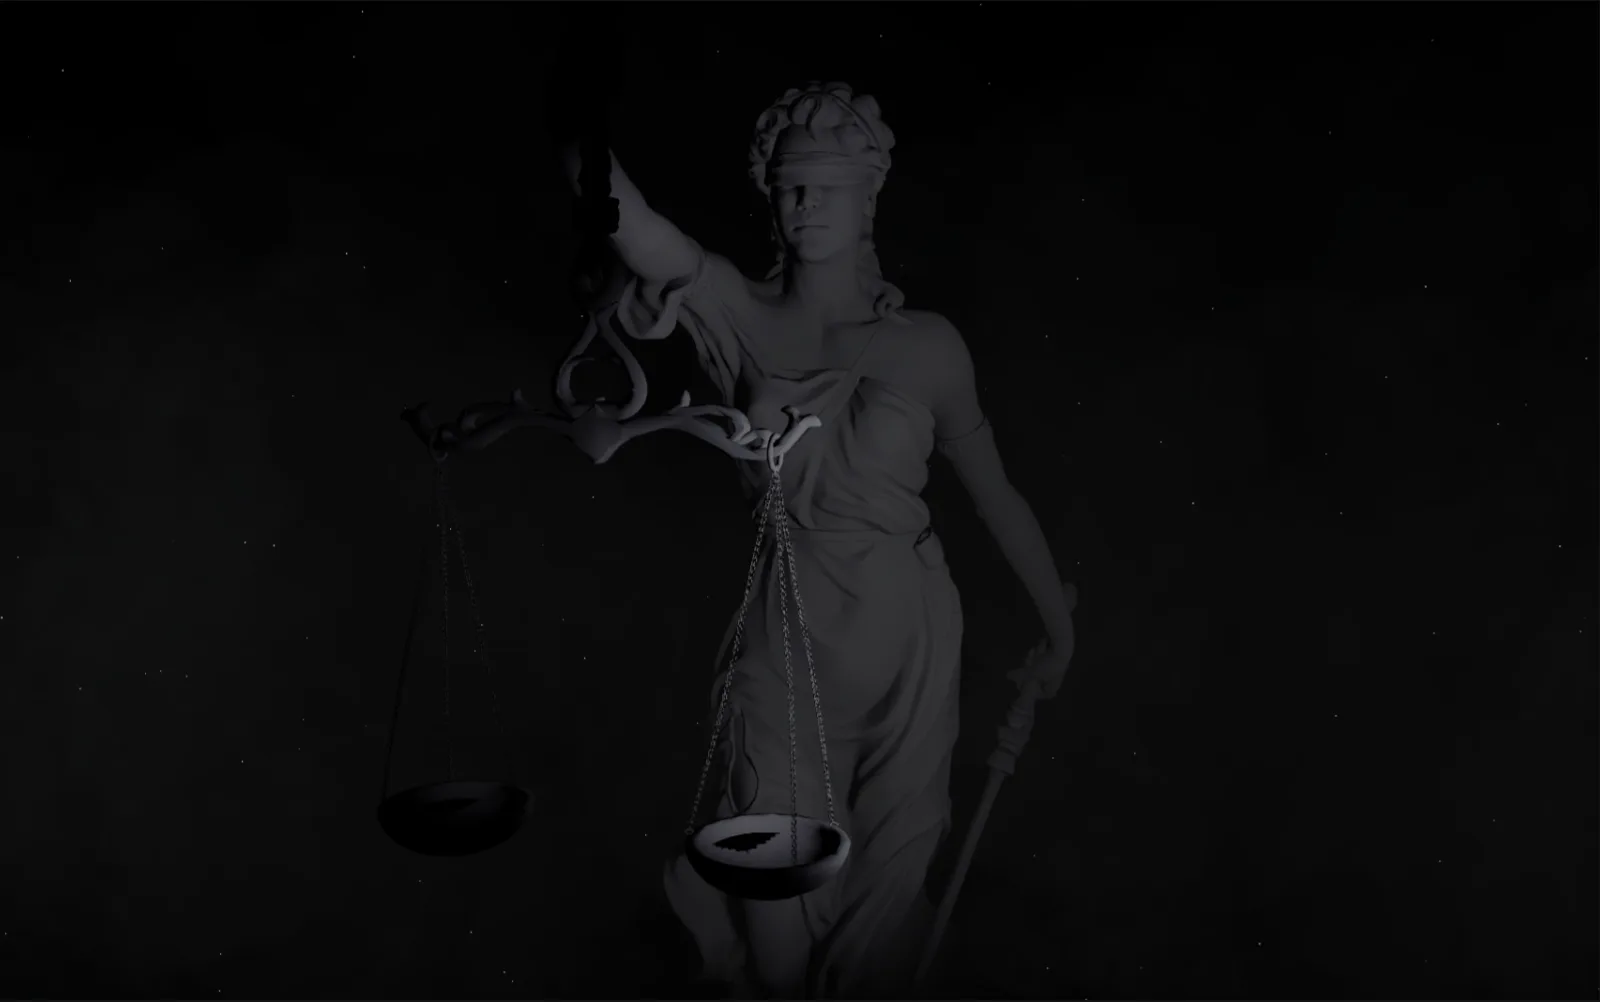
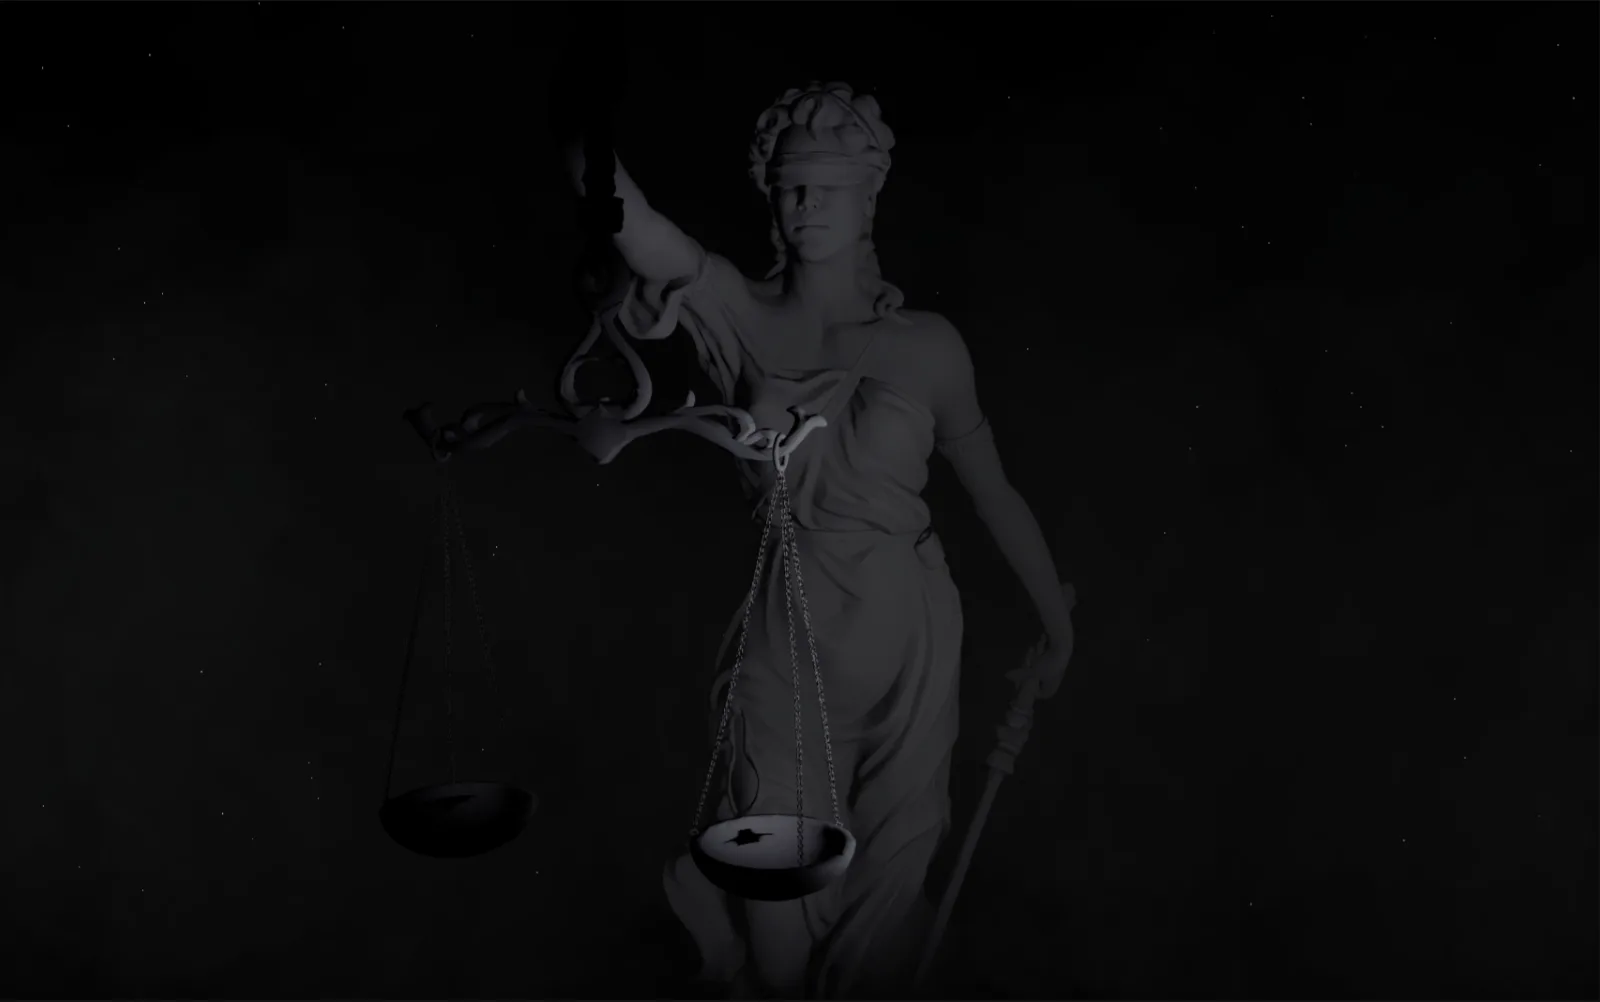
perf(statue): drop ~invisible point lights, lighter VSM shadow
The two point lights (intensity 6, ~24 units away, physical decay) added
~1% light but cost two light evaluations per fragment. The VSM map goes
1024 -> 512 with 12 blur samples (was 24) and radius 3.5 (was 7; radius
is in shadow-map texels, so halving keeps the same world-space softness).
Poster comparison: near-identical. Governance poster re-captured.

Claude-Session: https://claude.ai/code/session_01Vfbzc6RXiZzHMN87fvMCKc

diff --git a/src/components/canvas/scenes/statue-scene.tsx b/src/components/canvas/scenes/statue-scene.tsx
@@ -84,10 +84,10 @@ function Statue() {
 				penumbra={0.5}
 				castShadow
 				intensity={1500}
-				shadow-mapSize={1024}
+				shadow-mapSize={512}
 				shadow-bias={-0.0008}
-				shadow-radius={7}
-				shadow-blurSamples={24}
+				shadow-radius={3.5}
+				shadow-blurSamples={12}
 			>
 				<orthographicCamera
 					attach="shadow-camera"
@@ -102,8 +102,6 @@ export default function StatueScene() {
 	return (
 		<>
 			<fog attach="fog" args={["black", 0, 20]} />
-			<pointLight position={[10, -10, -20]} intensity={6} />
-			<pointLight position={[-10, -10, -20]} intensity={6} />
 			<Statue />
 		</>
 	);
